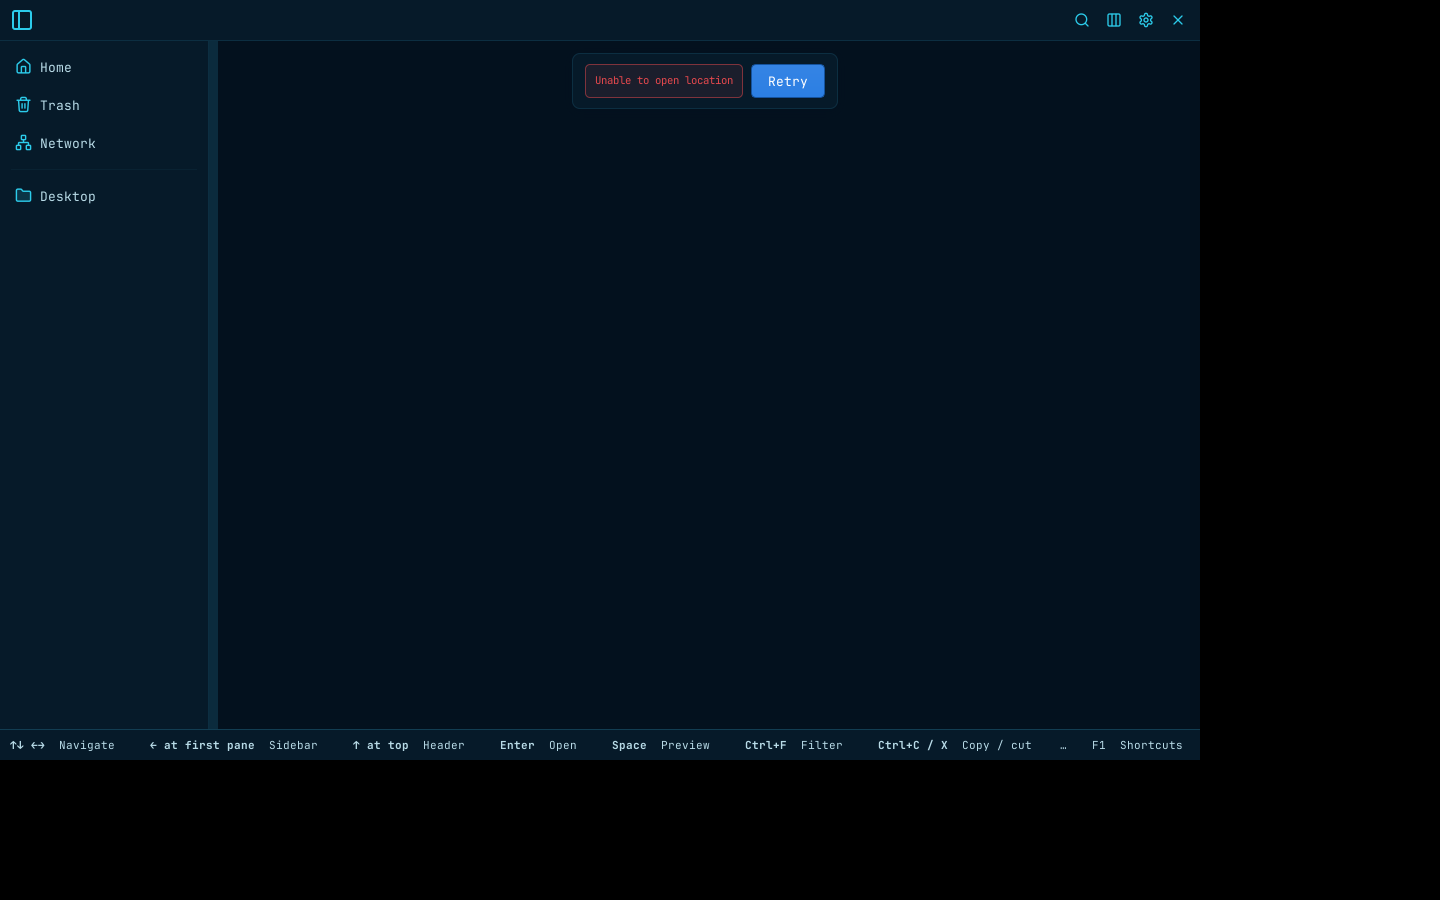
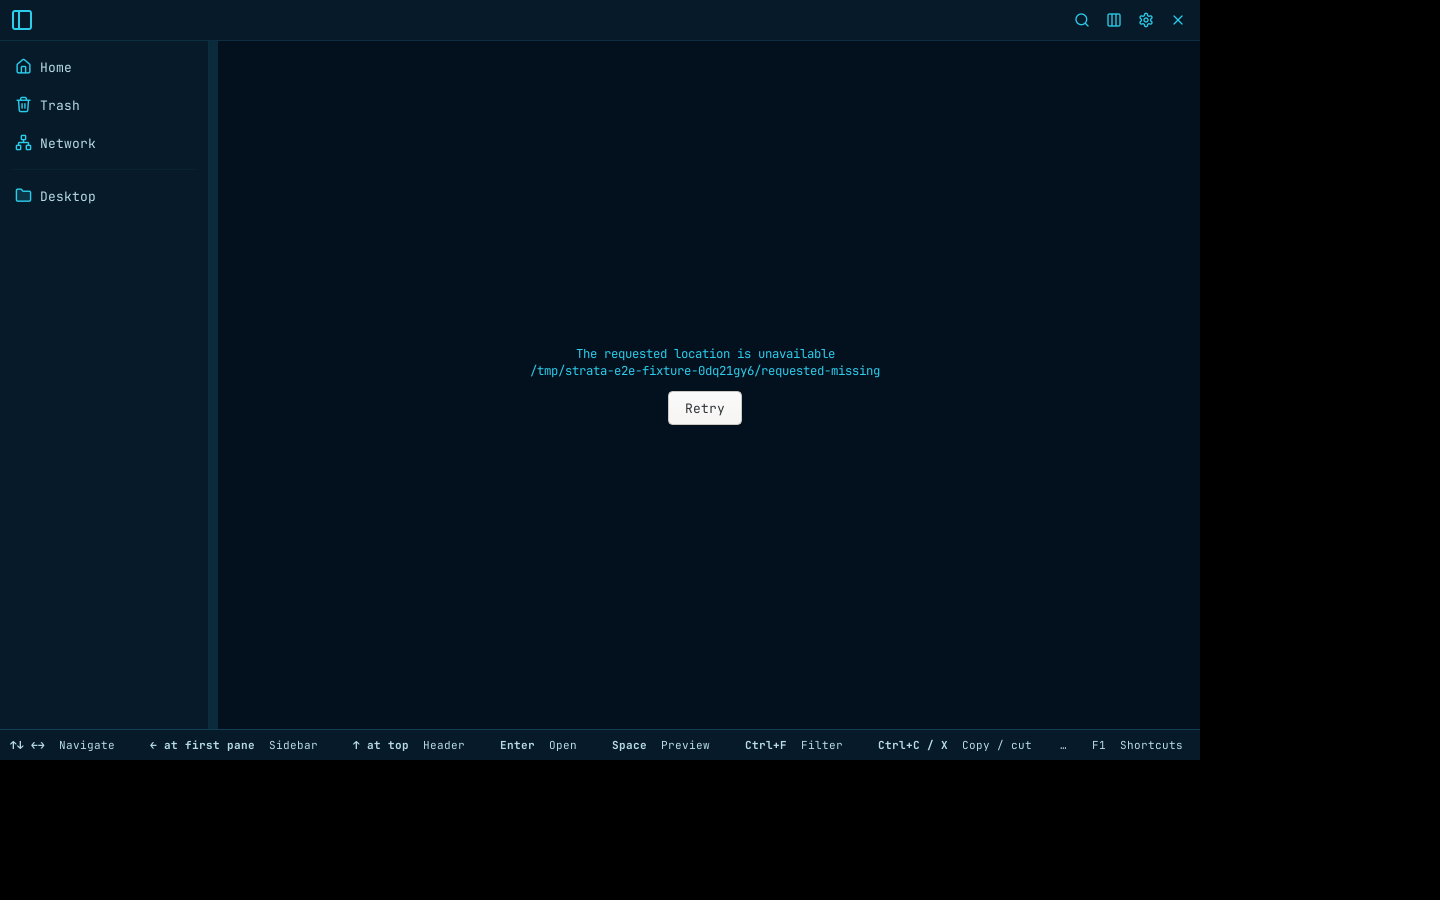
fix(startup): center unavailable location feedback

Changed region(s): [[0.375, 0.3733, 0.5938, 0.4978], [0.4062, 0.0622, 0.5938, 0.1244]]

diff --git a/src/style.css b/src/style.css
@@ -834,7 +834,7 @@ headerbar menubutton.header-action > button:focus-visible {
   color: @theme_danger;
 }
 
-.open-argument-status {
+.open-argument-connecting {
   background: @theme_surface;
   border: 1px solid alpha(@theme_border, 0.6);
   border-radius: 8px;

diff --git a/src/ui/window/open_argument/tests.rs b/src/ui/window/open_argument/tests.rs
@@ -76,6 +76,20 @@ fn button_with_label(widget: &gtk::Widget, label: &str) -> Option<gtk::Button> {
     None
 }
 
+fn first_label(widget: &gtk::Widget) -> Option<gtk::Label> {
+    if let Ok(label) = widget.clone().downcast::<gtk::Label>() {
+        return Some(label);
+    }
+    let mut child = widget.first_child();
+    while let Some(widget) = child {
+        child = widget.next_sibling();
+        if let Some(label) = first_label(&widget) {
+            return Some(label);
+        }
+    }
+    None
+}
+
 #[test]
 fn query_kind_classifies_a_directory() {
     crate::test_support::gtk_test(
@@ -222,6 +236,68 @@ fn fast_failure_keeps_retry_after_the_connecting_delay() {
 }
 
 #[test]
+fn retry_opens_a_directory_restored_after_the_initial_failure() {
+    crate::test_support::gtk_test(
+        "ui::window::open_argument::tests::retry_opens_a_directory_restored_after_the_initial_failure",
+        || {
+            ThemeManager::seed_saved_preferences_for_test();
+            let root = tempfile::tempdir().expect("fixture");
+            let restored = root.path().join("restored directory");
+            let file = gio::File::for_path(&restored);
+            let location = location_for_file(&file).expect("native location");
+            let browser = view();
+
+            classify(browser.clone(), file, location);
+            wait_until(|| status_widget(&browser.overlay()).is_some());
+            std::fs::create_dir(&restored).expect("restore directory");
+            let status = status_widget(&browser.overlay()).expect("error status");
+            button_with_label(&status, "Retry")
+                .expect("retry button")
+                .emit_clicked();
+
+            wait_until(|| {
+                browser
+                    .browser()
+                    .active_location()
+                    .is_some_and(|location| location.native_path() == Some(restored.as_path()))
+            });
+            assert!(status_widget(&browser.overlay()).is_none());
+        },
+    );
+}
+
+#[test]
+fn retry_reveals_a_file_restored_after_the_initial_failure() {
+    crate::test_support::gtk_test(
+        "ui::window::open_argument::tests::retry_reveals_a_file_restored_after_the_initial_failure",
+        || {
+            ThemeManager::seed_saved_preferences_for_test();
+            let root = tempfile::tempdir().expect("fixture");
+            let restored = root.path().join("restored file.txt");
+            let file = gio::File::for_path(&restored);
+            let location = location_for_file(&file).expect("native location");
+            let browser = view();
+
+            classify(browser.clone(), file, location);
+            wait_until(|| status_widget(&browser.overlay()).is_some());
+            std::fs::write(&restored, b"restored").expect("restore file");
+            let status = status_widget(&browser.overlay()).expect("error status");
+            button_with_label(&status, "Retry")
+                .expect("retry button")
+                .emit_clicked();
+
+            wait_until(|| {
+                browser
+                    .browser()
+                    .active_location()
+                    .is_some_and(|location| location.native_path() == Some(root.path()))
+            });
+            assert!(status_widget(&browser.overlay()).is_none());
+        },
+    );
+}
+
+#[test]
 fn connecting_cancel_invalidates_the_request_and_clears_status() {
     crate::test_support::gtk_test(
         "ui::window::open_argument::tests::connecting_cancel_invalidates_the_request_and_clears_status",
@@ -254,16 +330,35 @@ fn errors_do_not_expose_uri_credentials() {
                 Location::uri("sftp://user@example.invalid/file.txt"),
             );
             let status = status_widget(&browser.overlay()).expect("error status");
+            let content = status
+                .clone()
+                .downcast::<gtk::Box>()
+                .expect("error content");
+            assert_eq!(content.orientation(), gtk::Orientation::Vertical);
+            assert_eq!(content.halign(), gtk::Align::Center);
+            assert_eq!(content.valign(), gtk::Align::Center);
+            assert!(content.has_css_class("directory-feedback"));
+            assert!(!content.has_css_class("open-argument-connecting"));
+
+            let label = first_label(&status).expect("error label");
             assert_eq!(
-                status
-                    .first_child()
-                    .and_then(|content| content.first_child())
-                    .and_downcast::<gtk::Label>()
-                    .expect("error label")
-                    .text(),
-                "Unable to open location"
+                label.text(),
+                "The requested location is unavailable\nsftp://user@example.invalid/file.txt"
             );
-            assert!(button_with_label(&status, "Retry").is_some());
+            assert!(label.has_css_class("status-message"));
+            assert!(label.has_css_class("error"));
+            assert!(!label.has_css_class("form-message"));
+            assert_eq!(label.justify(), gtk::Justification::Center);
+            assert!(label.wraps());
+            assert_eq!(label.wrap_mode(), gtk::pango::WrapMode::WordChar);
+            assert_eq!(label.ellipsize(), gtk::pango::EllipsizeMode::Middle);
+            assert_eq!(label.lines(), 3);
+            assert!(!label.text().contains("secret"));
+
+            let retry = button_with_label(&status, "Retry").expect("retry button");
+            assert!(retry.has_css_class("retry-button"));
+            assert!(!retry.has_css_class("suggested-action"));
+            assert_eq!(retry.halign(), gtk::Align::Center);
         },
     );
 }

diff --git a/src/ui/window/open_argument.rs b/src/ui/window/open_argument.rs
@@ -193,9 +193,10 @@ fn clear_status(browser: &BrowserView) {
     }
 }
 
-fn status_container() -> (gtk::Box, gtk::Box) {
+fn connecting_status_container() -> (gtk::Box, gtk::Box) {
     let row = gtk::Box::new(gtk::Orientation::Horizontal, 8);
     row.add_css_class("open-argument-status");
+    row.add_css_class("open-argument-connecting");
     row.set_halign(gtk::Align::Center);
     row.set_valign(gtk::Align::Start);
     let content = gtk::Box::new(gtk::Orientation::Horizontal, 8);
@@ -213,7 +214,7 @@ fn show_connecting(weak: WeakBrowserView, generation: u64, request: Rc<OpenReque
     }
     clear_status(&browser);
     let overlay = browser.overlay();
-    let (row, content) = status_container();
+    let (row, content) = connecting_status_container();
 
     let spinner = gtk::Spinner::new();
     spinner.start();
@@ -241,16 +242,29 @@ fn show_connecting(weak: WeakBrowserView, generation: u64, request: Rc<OpenReque
 
 fn show_error(browser: &BrowserView, file: gio::File, location: Location) {
     let overlay = browser.overlay();
-    let (row, content) = status_container();
+    let content = gtk::Box::new(gtk::Orientation::Vertical, 8);
+    content.add_css_class("open-argument-status");
+    content.add_css_class("directory-feedback");
+    content.set_halign(gtk::Align::Center);
+    content.set_valign(gtk::Align::Center);
 
-    let label = gtk::Label::new(Some("Unable to open location"));
-    label.add_css_class("form-message");
+    let label = gtk::Label::new(Some(&format!(
+        "The requested location is unavailable\n{}",
+        location.display_path()
+    )));
+    label.add_css_class("status-message");
     label.add_css_class("error");
+    label.set_justify(gtk::Justification::Center);
     label.set_wrap(true);
+    label.set_wrap_mode(gtk::pango::WrapMode::WordChar);
+    label.set_ellipsize(gtk::pango::EllipsizeMode::Middle);
+    label.set_lines(3);
+    label.set_max_width_chars(60);
     content.append(&label);
 
     let retry = gtk::Button::with_label("Retry");
-    retry.add_css_class("suggested-action");
+    retry.add_css_class("retry-button");
+    retry.set_halign(gtk::Align::Center);
     content.append(&retry);
     let retry_browser = browser.downgrade();
     retry.connect_clicked(move |_| {
@@ -260,7 +274,7 @@ fn show_error(browser: &BrowserView, file: gio::File, location: Location) {
         }
     });
 
-    overlay.add_overlay(&row);
+    overlay.add_overlay(&content);
 }
 
 #[cfg(test)]

diff --git a/tests/e2e/scenarios/test_startup_arguments.py b/tests/e2e/scenarios/test_startup_arguments.py
@@ -8,6 +8,68 @@ from harness.application import binary_path
 from harness.environment import process_environment
 
 
+def launch_argument(strata, argument):
+    variables = process_environment()
+    variables.update(strata.environment.variables())
+    variables.update(strata.display.environment)
+    subprocess.run(
+        [binary_path(), argument],
+        env=variables,
+        cwd=strata.fixture.root,
+        check=True,
+        timeout=30,
+        capture_output=True,
+    )
+
+
+def unavailable_location_window(strata, requested):
+    return next(
+        (
+            window
+            for window in strata.application.application_node.find_all(
+                role="frame", name="Strata"
+            )
+            if any(
+                "The requested location is unavailable" in label.name
+                and requested in label.name
+                for label in window.find_all(role="label")
+            )
+        ),
+        None,
+    )
+
+
+def test_missing_argument_names_the_unavailable_location_and_offers_retry(strata):
+    missing = strata.fixture.path("requested-missing")
+    launch_argument(strata, str(missing))
+
+    window = strata.wait(
+        lambda: unavailable_location_window(strata, str(missing)),
+        "the unavailable-location error",
+    )
+    assert window.find(role="button", name="Retry") is not None
+
+
+def test_missing_directory_can_be_restored_and_retried(strata):
+    missing = strata.fixture.path("requested-missing")
+    launch_argument(strata, str(missing))
+
+    window = strata.wait(
+        lambda: unavailable_location_window(strata, str(missing)),
+        "the unavailable-location error",
+    )
+    retry = window.find(role="button", name="Retry")
+    assert retry is not None
+
+    missing.mkdir()
+    (missing / "restored.txt").write_text("restored\n")
+    strata.pointer.click(retry)
+    strata.wait(
+        lambda: window.find(name="restored.txt") is not None,
+        "Retry to open the restored directory",
+    )
+
+
 def test_multiple_arguments_include_non_utf8_directory_and_file(strata):
     root = os.fsencode(strata.fixture.root)
     directories = [root + b"/startup-first", root + b"/startup-\xff"]
